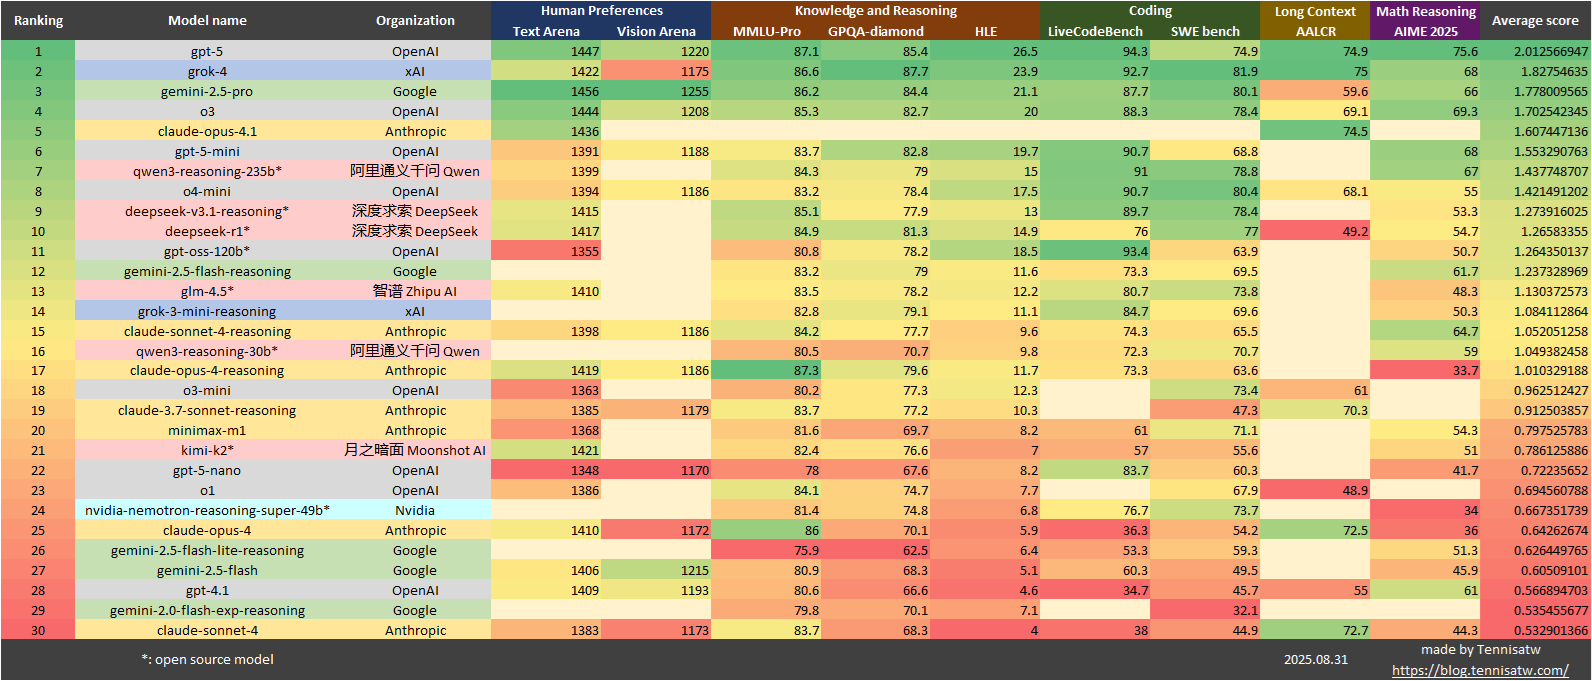
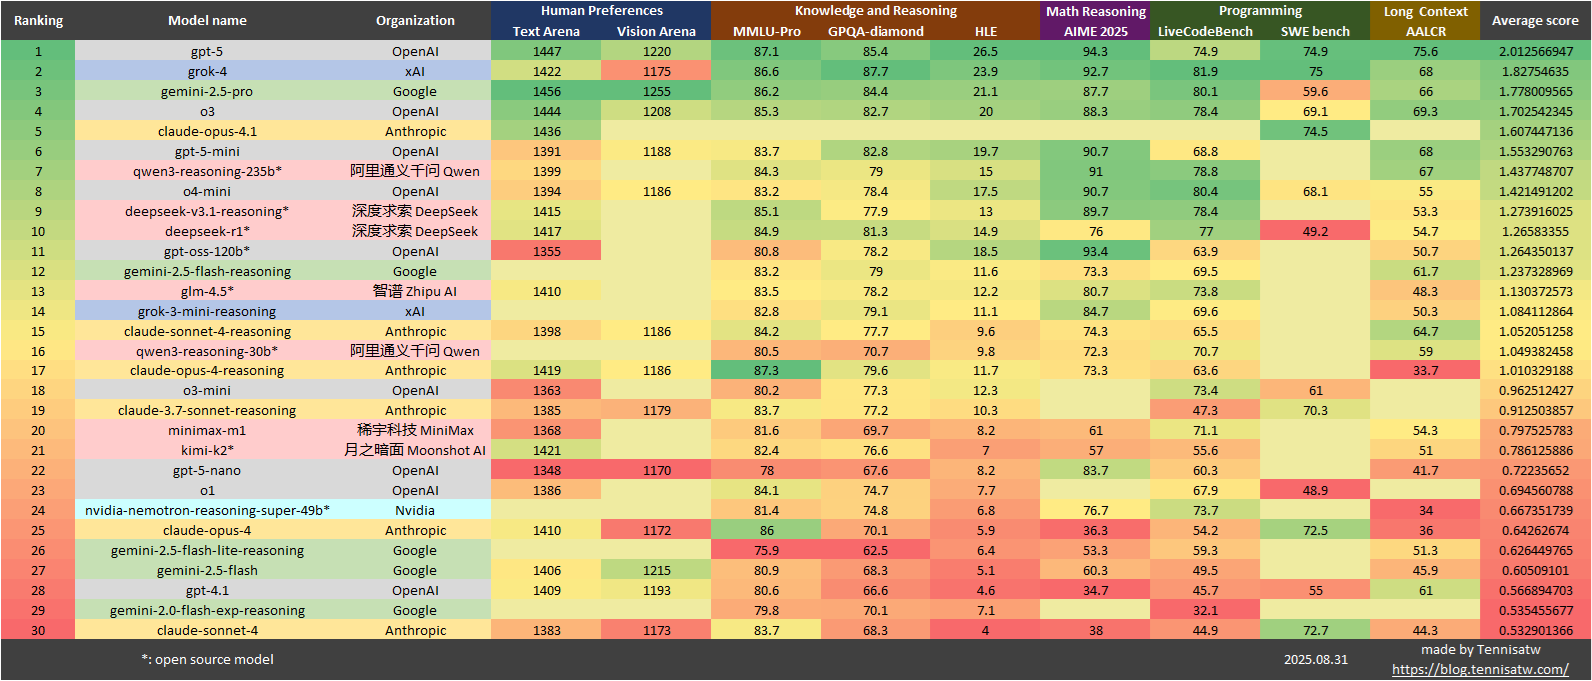
update readme

Changed region(s): [[0.3078, 0.0, 1.0, 1.0], [0.0308, 0.6167, 0.3078, 0.6476], [0.6156, 0.7401, 0.6464, 0.8326]]

diff --git a/README.md b/README.md
@@ -2,9 +2,9 @@
 
 # LLM Quantitative Capability Evaluation Table
 
-![](25-08-24/en.png)
+![](25-08-31/en.png)
 
-This table summarizes the performance of commonly used large language models (LLMs) across major benchmark evaluations. The benchmarks cover various aspects such as human preference, knowledge and reasoning abilities, mathematical skills, and coding proficiency. The goal is to assess each model's strengths and arrive at an approximate overall ranking.
+This table summarizes the performance of popular large language models across well-known benchmark leaderboards, integrating evaluation results to obtain an overall ranking. These rankings cover a range of capabilities, including human preference, knowledge and reasoning, mathematical skills, and coding ability.
 
 <br>
 
@@ -52,15 +52,15 @@ The American Invitational Mathematics Examination (AIME) benchmark tests models 
 
 ### Coding Ability
 
-<!-- [SWE-Bench](https://www.swebench.com/)
-
-SWE-Bench 是一个用于评估大型语言模型在真实软件工程场景中自动修复代码能力的基准数据集与测试平台，基于 GitHub 开源项目的历史问题与修复提交构建。
-
-<br> -->
-
 [LiveCodeBench](https://livecodebench.github.io/leaderboard.html)
 
 Measures real-time code generation and execution. It evaluates how well a model can write, run, and debug code dynamically in an interactive environment.
+
+<br>
+
+[SWE-Bench](https://www.swebench.com/)
+
+SWE-Bench is a benchmark dataset and testing platform for evaluating large language models' ability to automatically fix code in real software engineering scenarios, built on the historical issues and fix submissions of GitHub open-source projects.
 
 <br>
 
